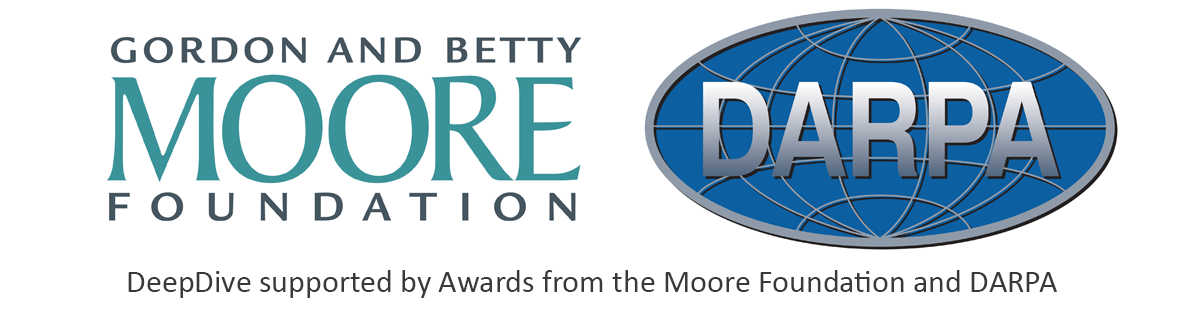
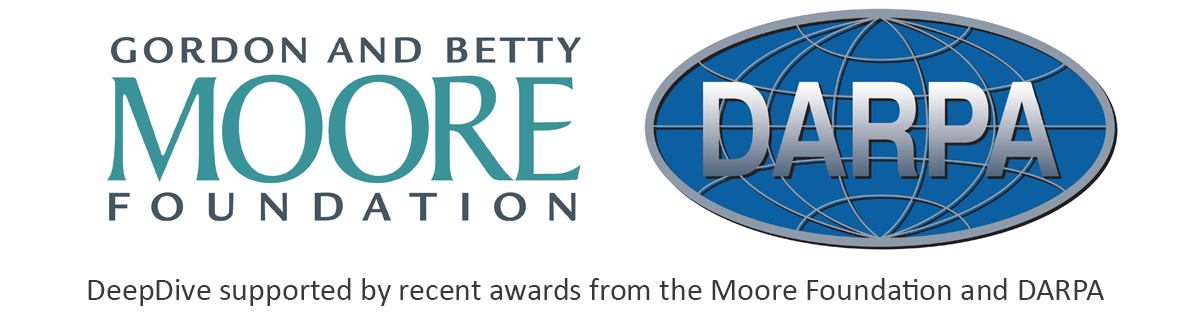
Made the pictures bigger

Changed region(s): [[0.0617, 0.8571, 0.925, 0.9714]]

diff --git a/doc/_layouts/homepage.html b/doc/_layouts/homepage.html
@@ -1,0 +1,138 @@
+<html>
+
+  <head>
+    <meta charset='utf-8' />
+    <meta http-equiv="X-UA-Compatible" content="chrome=1" />
+    <meta name="description" content="DeepDive" />
+    <link href='http://fonts.googleapis.com/css?family=Lato:300,400,700' rel='stylesheet' type='text/css'>
+    <link rel="stylesheet" type="text/css" href="{{ site.baseurl }}/stylesheets/application.css" />
+    <link rel="canonical" href="http://deepdive.stanford.edu">
+    <script src="http://code.jquery.com/jquery-1.10.1.min.js"></script>
+    <script src="{{ site.baseurl }}/javascripts/application.js"></script>
+    <meta name="viewport" content="width=device-width, initial-scale=1.0">
+    <title>DeepDive</title>
+  </head>
+
+  <body>
+      {% include js/segmentio.js %}
+      <a href="https://github.com/hazyresearch/deepdive" target="_blank"><img style="position: absolute; top: 0; right: 0; border: 0;" src="https://s3.amazonaws.com/github/ribbons/forkme_right_red_aa0000.png" alt="Fork me on GitHub"></a>
+
+      <div id="header">
+        <div class="container">
+          <row>
+            <div class="col-md-4 col-md-offset-1">
+              <a href="{{ site.baseurl }}/" class="deepdive-logo">
+              <img src="{{ site.baseurl }}/images/header_logo.png" style="width: 250px;"/>
+              </a> 
+            </div>
+            <div class="col-md-6 col-md-offset-1">
+              <ul class="list-unstyled list-inline" id="header-nav">
+                <li><a href="{{ site.baseurl }}/index.html">Home</a></li>
+                <li><a href="{{ site.baseurl }}/doc/basics/installation.html">Download</a></li>
+                <li><a href="{{ site.baseurl }}/index.html#documentation">Documentation</a></li>
+                <li><a href="https://mailman.stanford.edu/mailman/listinfo/deepdive-list" target="_blank">Mailing List</a></li>
+              </ul>
+              
+            </div>
+          </row>
+        </div>
+      </div>
+
+      <section id="carousel" style="margin-top:30px; margin-bottom: -20px;">
+      <div class="container">
+        <div id="deepdive-carousel" class="carousel slide" data-ride="carousel">
+          <!-- Indicators -->
+          <ol class="carousel-indicators">
+            <li data-target="#deepdive-carousel" data-slide-to="0" class="active"></li>
+            <li data-target="#deepdive-carousel" data-slide-to="1"></li>
+            <li data-target="#deepdive-carousel" data-slide-to="2"></li>
+            <li data-target="#deepdive-carousel" data-slide-to="3"></li>
+          </ol>
+          <!-- Wrapper for slides -->
+          <div class="carousel-inner">
+            <div class="item active">
+              <a href="https://github.com/hazyresearch/deepdive">
+              <img src="images/carousel/deepdive.png" alt="DeepDive Release">
+              </a>
+              <!-- <div class="carousel-caption">
+                  DeepDive Release 0.4.2
+              </div> -->
+            </div>
+            <div class="item">
+              <a href="#papers">
+              <img src="images/carousel/paleo.png" alt="PaleoDeepDive">
+              </a>
+              <!-- <div class="carousel-caption">
+                  DeepDive Applications
+              </div> -->
+            </div>
+            <div class="item">
+              <a href="http://www.wired.com/2014/07/microsoft-adam/">
+              <img src="images/carousel/dimmwitted.png" alt="DimmWitted">
+              </a>
+              <!-- <div class="carousel-caption">
+                  DimmWitted
+              </div> -->
+            </div>
+            <div class="item">
+              <img src="images/carousel/support.png" alt="Support">
+              <!-- <div class="carousel-caption">
+                  DeepDive supported by Awards from the Moore Foundation and DARPA
+              </div> -->
+            </div>
+          </div>
+          <!-- Controls -->
+          <!-- <a class="left carousel-control" href="#deepdive-carousel" role="button" data-slide="prev">
+            <span class="glyphicon glyphicon-chevron-left"></span>
+          </a>
+          <a class="right carousel-control" href="#deepdive-carousel" role="button" data-slide="next">
+            <span class="glyphicon glyphicon-chevron-right"></span>
+          </a> -->
+        </div>
+<!--         <blockquote>
+        <ul>
+        <li>DeepDive asks the developer to think about features—not algorithms. In contrast, other machine learning systems require the developer think about which clustering algorithm classification algorithm, etc. In DeepDive’s joint inference based approach, the user only specifies the necessary signals or features.</li>
+        <li>
+        DeepDive has achieved winning performance in 
+        <a href="http://i.stanford.edu/hazy/papers/2014kbp-systemdescription.pdf">text competitions</a> 
+        and even beat human volunteers in extracting complex knowledge in 
+        <a href="http://www.plosone.org/article/info:doi/10.1371/journal.pone.0113523">scientific domains</a>.
+        </li>
+        </ul>
+        </blockquote>
+ -->
+      </div>
+      </section>
+
+
+      <section id="main">
+        <div class="container">
+          <row>
+            <div class="col-md-10 col-md-offset-1">
+              {{ content }}
+            </div>
+          </row>
+        </div>
+      </section>
+    
+      <footer id="footer">
+        <div class="container">
+          <row>
+            <div class="col-md-10 col-md-offset-1">
+              <p class="pull-left"> 
+                Copyright, 2014 deepdive.stanford.edu
+                ⋅
+                <a href="mailto:contact.hazy@gmail.com">Questions? Email us</a>
+              </p>
+              <p class="pull-right"> 
+                Visit DeepDive on <a href="https://github.com/hazyresearch/deepdive" target="_blank">Github</a> 
+              </p>
+            </div>
+          </row>
+        </div>
+      </footer>
+
+    
+  
+  </body>
+</html>

diff --git a/doc/index.md b/doc/index.md
@@ -1,71 +1,7 @@
 ---
-layout: default
+layout: homepage
 root: "."
 ---
-
-<div id="deepdive-carousel" class="carousel slide" data-ride="carousel">
-  <!-- Indicators -->
-  <ol class="carousel-indicators">
-    <li data-target="#deepdive-carousel" data-slide-to="0" class="active"></li>
-    <li data-target="#deepdive-carousel" data-slide-to="1"></li>
-    <li data-target="#deepdive-carousel" data-slide-to="2"></li>
-    <li data-target="#deepdive-carousel" data-slide-to="3"></li>
-  </ol>
-  <!-- Wrapper for slides -->
-  <div class="carousel-inner">
-    <div class="item active">
-      <a href="https://github.com/hazyresearch/deepdive">
-      <img src="images/carousel/deepdive.png" alt="DeepDive Release">
-      </a>
-      <!-- <div class="carousel-caption">
-          DeepDive Release 0.4.2
-      </div> -->
-    </div>
-    <div class="item">
-      <a href="#papers">
-      <img src="images/carousel/paleo.png" alt="PaleoDeepDive">
-      </a>
-      <!-- <div class="carousel-caption">
-          DeepDive Applications
-      </div> -->
-    </div>
-    <div class="item">
-      <a href="http://www.wired.com/2014/07/microsoft-adam/">
-      <img src="images/carousel/dimmwitted.png" alt="DimmWitted">
-      </a>
-      <!-- <div class="carousel-caption">
-          DimmWitted
-      </div> -->
-    </div>
-    <div class="item">
-      <img src="images/carousel/support.png" alt="Support">
-      <!-- <div class="carousel-caption">
-          DeepDive supported by Awards from the Moore Foundation and DARPA
-      </div> -->
-    </div>
-  </div>
-  <!-- Controls -->
-  <a class="left carousel-control" href="#deepdive-carousel" role="button" data-slide="prev">
-    <span class="glyphicon glyphicon-chevron-left"></span>
-  </a>
-  <a class="right carousel-control" href="#deepdive-carousel" role="button" data-slide="next">
-    <span class="glyphicon glyphicon-chevron-right"></span>
-  </a>
-</div>
-
-
-<blockquote>
-<ul>
-<li>DeepDive asks the developer to think about features—not algorithms. In contrast, other machine learning systems require the developer think about which clustering algorithm classification algorithm, etc. In DeepDive’s joint inference based approach, the user only specifies the necessary signals or features.</li>
-<li>
-DeepDive has achieved winning performance in 
-<a href="http://i.stanford.edu/hazy/papers/2014kbp-systemdescription.pdf">text competitions</a> 
-and even beat human volunteers in extracting complex knowledge in 
-<a href="http://www.plosone.org/article/info:doi/10.1371/journal.pone.0113523">scientific domains</a>.
-</li>
-</ul>
-</blockquote>
-
 
 ### What is DeepDive?
 
@@ -76,6 +12,15 @@ user feedback to improve the quality of its analysis.
 
 DeepDive differs from traditional systems in several ways:
 
+- DeepDive asks the developer to **think about features—not algorithms**.
+  In contrast, other machine learning systems require the developer
+  think about which clustering algorithm classification algorithm, etc.
+  In DeepDive’s joint inference based approach, the user only specifies
+  the necessary signals or features.
+- DeepDive has achieved **winning performance** in 
+  [text competitions](http://i.stanford.edu/hazy/papers/2014kbp-systemdescription.pdf) 
+  and even **beat human volunteers** in extracting complex knowledge in 
+  [scientific domains](http://www.plosone.org/article/info:doi/10.1371/journal.pone.0113523).
 - DeepDive is aware that **data is often noisy and imprecise**: names are
   misspelled, natural language is ambiguous, and humans make mistakes. Taking
   such imprecisions into account, DeepDive computes
